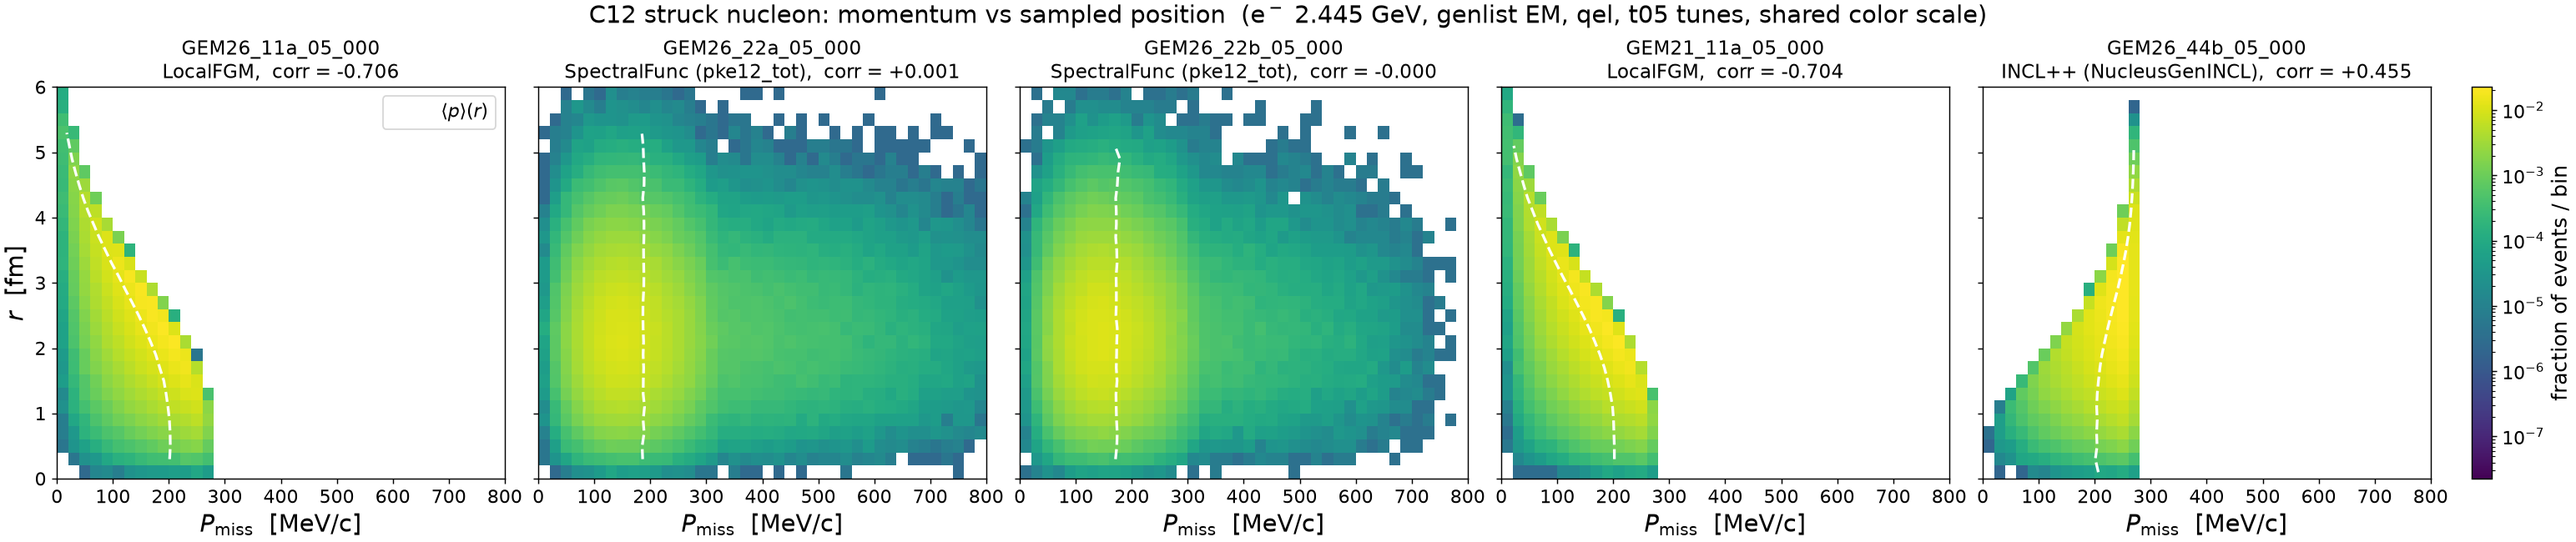
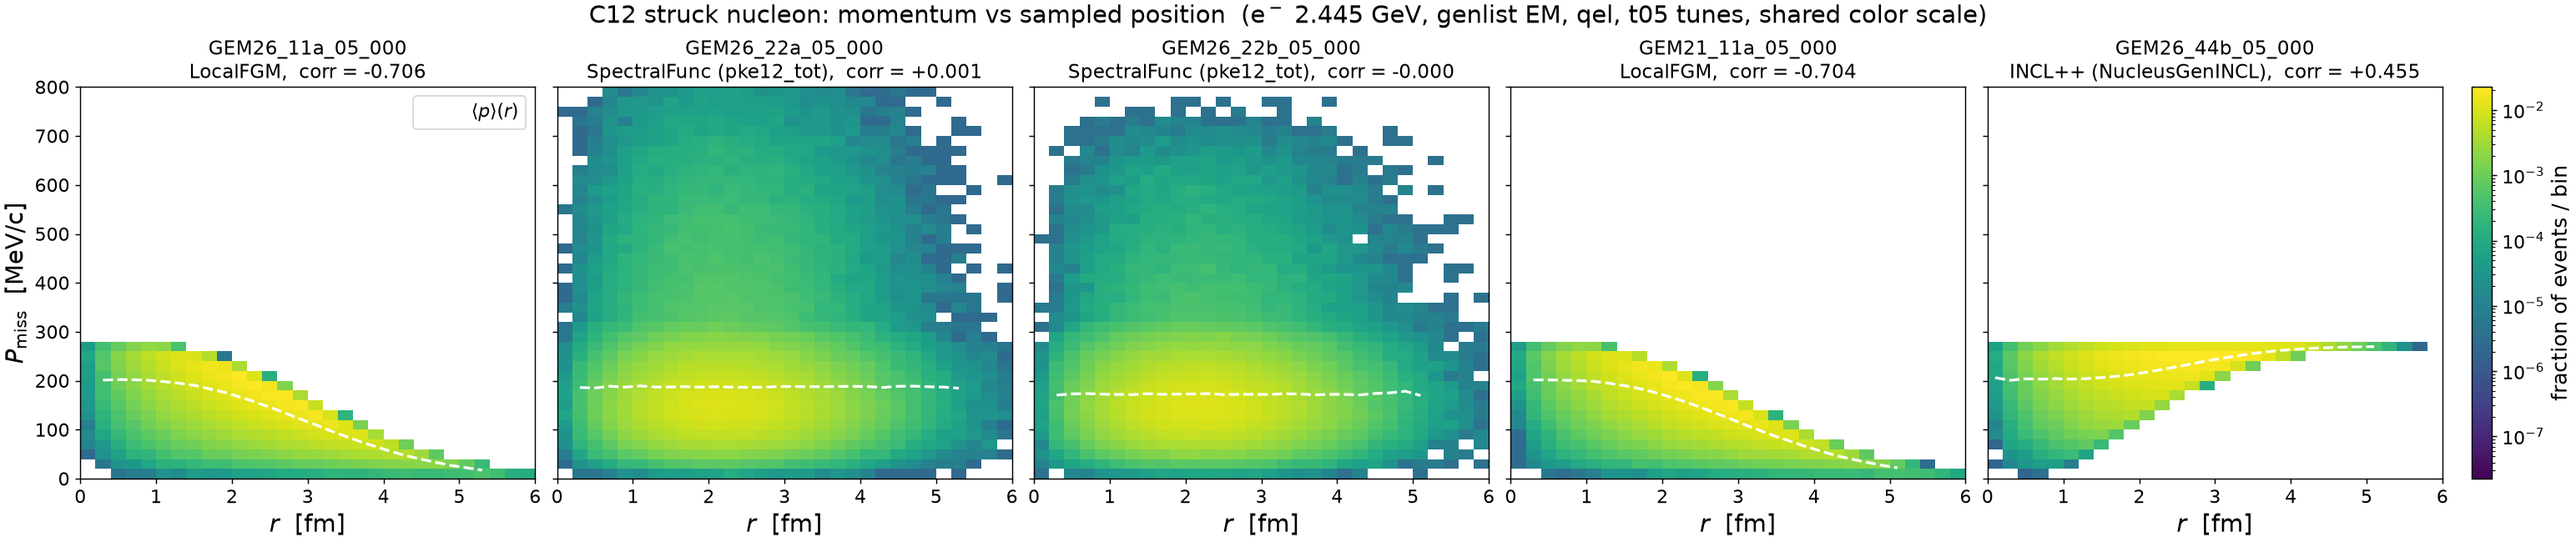
results: v1.0 -- struck_pr INCL figures with r on x, momentum on y
make_struck_pr.py: --r-on-x transposes the panel (radius on x, P_miss on
y; default orientation unchanged, so the committed v0.1 figures are
unaffected). The two INCL note figures regenerated in that orientation;
note text and regenerate line updated.

diff --git a/results/template/make_struck_pr.py b/results/template/make_struck_pr.py
@@ -52,6 +52,7 @@ TUNES = ["GEM26_11a_05_000", "GEM26_22a_05_000",
 EXTRA_TUNES = ["GEM26_44b_05_000"]
 GS_OVERRIDE = {"GEM26_44b_05_000": "INCL++ (NucleusGenINCL)"}
 GENLIST = {"GEM26_44b_05_000": "EMQE"}       # default: EM (t05 campaigns)
+R_ON_X = False       # --r-on-x: radius on x, momentum on y (default: p on x)
 SF_TUNE = "GEM26_22a_05_000"          # any tune resolving to the 2D SF table
 R_MAX = {"Fe56": 8.0, "C12": 6.0}     # fm, ~1.6x the hard-sphere radius
 Q2_CENTER, Q2_FRAC = 1.28, 0.05       # --sel-qel-q2 window (Dutta slice)
@@ -108,19 +109,31 @@ def load_hist(csv: Path, R_edges, P_edges, sel_qel_q2=False, sel_qel=False):
 
 
 def draw_panel(ax, fig, H, prof, R_edges, P_edges, norm, add_cbar=True):
-    # orientation: x = missing momentum P_miss (plots 1-2), y = radius r
-    Xe, Ye = np.meshgrid(P_edges, R_edges, indexing="ij")
-    Zm = np.ma.masked_less_equal(H.T, 0.0)
-    pc = ax.pcolormesh(Xe, Ye, Zm, cmap="viridis", norm=norm)
+    # default orientation: x = missing momentum P_miss (plots 1-2), y = radius
+    # r; --r-on-x transposes (x = r, y = P_miss). H is indexed [r, p].
     r_ctr, p_of_r = prof
-    ax.plot(p_of_r, r_ctr, "w--", lw=1.8, label=r"$\langle p\rangle(r)$")
-    ax.set_xlabel(r"$P_{\rm miss}$  [MeV/c]", fontsize=FS_LABEL)
-    ax.set_xlim(P_edges[0], P_edges[-1])
+    if R_ON_X:
+        Xe, Ye = np.meshgrid(R_edges, P_edges, indexing="ij")
+        Zm = np.ma.masked_less_equal(H, 0.0)
+        pc = ax.pcolormesh(Xe, Ye, Zm, cmap="viridis", norm=norm)
+        ax.plot(r_ctr, p_of_r, "w--", lw=1.8, label=r"$\langle p\rangle(r)$")
+        ax.set_xlabel(r"$r$  [fm]", fontsize=FS_LABEL)
+        ax.set_xlim(R_edges[0], R_edges[-1])
+    else:
+        Xe, Ye = np.meshgrid(P_edges, R_edges, indexing="ij")
+        Zm = np.ma.masked_less_equal(H.T, 0.0)
+        pc = ax.pcolormesh(Xe, Ye, Zm, cmap="viridis", norm=norm)
+        ax.plot(p_of_r, r_ctr, "w--", lw=1.8, label=r"$\langle p\rangle(r)$")
+        ax.set_xlabel(r"$P_{\rm miss}$  [MeV/c]", fontsize=FS_LABEL)
+        ax.set_xlim(P_edges[0], P_edges[-1])
     ax.tick_params(labelsize=FS_TICK)
     if add_cbar:
         cb = fig.colorbar(pc, ax=ax, pad=0.02, fraction=0.046)
         cb.ax.tick_params(labelsize=FS_TICK)
     return pc
+
+
+YLABEL = {False: r"$r$  [fm]", True: r"$P_{\rm miss}$  [MeV/c]"}
 
 
 def single_figure(target, tune, H, prof, c, R_edges, P_edges, gs,
@@ -131,7 +144,7 @@ def single_figure(target, tune, H, prof, c, R_edges, P_edges, gs,
     fig, ax = plt.subplots(figsize=(w * 1.4, h), layout="constrained")
     norm = LogNorm(vmin=H.max() * 1e-6, vmax=H.max())
     draw_panel(ax, fig, H, prof, R_edges, P_edges, norm)
-    ax.set_ylabel(r"$r$  [fm]", fontsize=FS_LABEL)
+    ax.set_ylabel(YLABEL[R_ON_X], fontsize=FS_LABEL)
     ax.legend(loc="upper right", fontsize=FS_TICK)
     ax.set_title(f"N = {c['n_kept']:,}{sel_note or ' single-nucleon'} events,  "
                  f"corr(p, r) = {c['corr']:+.3f}", fontsize=FS_TITLE - 3)
@@ -158,7 +171,7 @@ def combined_figure(target, results, R_edges, P_edges, gs,
         pc = draw_panel(ax, fig, H, prof, R_edges, P_edges, norm, add_cbar=False)
         ax.set_title(f"{tune}\n{gs[tune]},  corr = {c['corr']:+.3f}",
                      fontsize=FS_TITLE - 3)
-    axes[0].set_ylabel(r"$r$  [fm]", fontsize=FS_LABEL)
+    axes[0].set_ylabel(YLABEL[R_ON_X], fontsize=FS_LABEL)
     axes[0].legend(loc="upper right", fontsize=FS_TICK)
     cb = fig.colorbar(pc, ax=axes, pad=0.01, fraction=0.02)
     cb.set_label("fraction of events / bin", fontsize=FS_TITLE - 2)
@@ -191,7 +204,11 @@ if __name__ == "__main__":
                          "the combined figure is drawn for >1 tune)")
     ap.add_argument("--tag", default="",
                     help="output-stem tag, e.g. _qel -> struck_pr_c12_all_t05_qel.png")
+    ap.add_argument("--r-on-x", action="store_true",
+                    help="radius on x, momentum on y (default: P_miss on x, "
+                         "the orientation of plots 1-2)")
     args = ap.parse_args()
+    R_ON_X = args.r_on_x
 
     apply_style()
     sel_note = (", qel && $Q^2=1.28\\pm5\\%$" if args.sel_qel_q2

diff --git a/results/prd-analyzer-v1.0/electron_c12_scattering_genie_incl.md b/results/prd-analyzer-v1.0/electron_c12_scattering_genie_incl.md
@@ -405,7 +405,8 @@ record carries, for the four campaign tunes **and** the INCL tune, all
 restricted to **QEL** single-nucleon events (`--sel-qel`; the campaign
 dumps are full-EM, the INCL sample is EMQE-only, so `scat = 1` is the
 like-for-like selection; no Q² window). Fraction of events per bin on one
-shared log color scale, white dashed = the per-column profile ⟨p⟩(r). The
+shared log color scale (r on x, momentum on y), white dashed = the per-column
+profile ⟨p⟩(r). The
 INCL sample was dumped from its four local GHEP chunks with
 `dump_hitnuc` (500,000 of 500,000 events single-nucleon):
 
@@ -447,5 +448,6 @@ INCL sample was dumped from its four local GHEP chunks with
 Regenerate: build `dump_hitnuc` in the `genie_inclxx` env (recipe in-file),
 dump the four chunks to `results/prd-analyzer-v0.1/cache/hitnuc_c12/GEM26_44b_05_000.csv`,
 then
-`GENIE_AGENT_INSTALLATION=genie_inclxx pixi run python results/template/make_struck_pr.py --dump-dir results/prd-analyzer-v0.1/cache/hitnuc_c12 --target C12 --tunes GEM26_11a_05_000 GEM26_22a_05_000 GEM26_22b_05_000 GEM21_11a_05_000 GEM26_44b_05_000 --sel-qel --tag _qel --out-dir results/prd-analyzer-v1.0`
-(`--tunes GEM26_44b_05_000` alone for the single figure).
+`GENIE_AGENT_INSTALLATION=genie_inclxx pixi run python results/template/make_struck_pr.py --dump-dir results/prd-analyzer-v0.1/cache/hitnuc_c12 --target C12 --tunes GEM26_11a_05_000 GEM26_22a_05_000 GEM26_22b_05_000 GEM21_11a_05_000 GEM26_44b_05_000 --sel-qel --tag _qel --r-on-x --out-dir results/prd-analyzer-v1.0`
+(`--tunes GEM26_44b_05_000` alone for the single figure; `--r-on-x` puts the
+radius on x and the momentum on y, the orientation used here).
